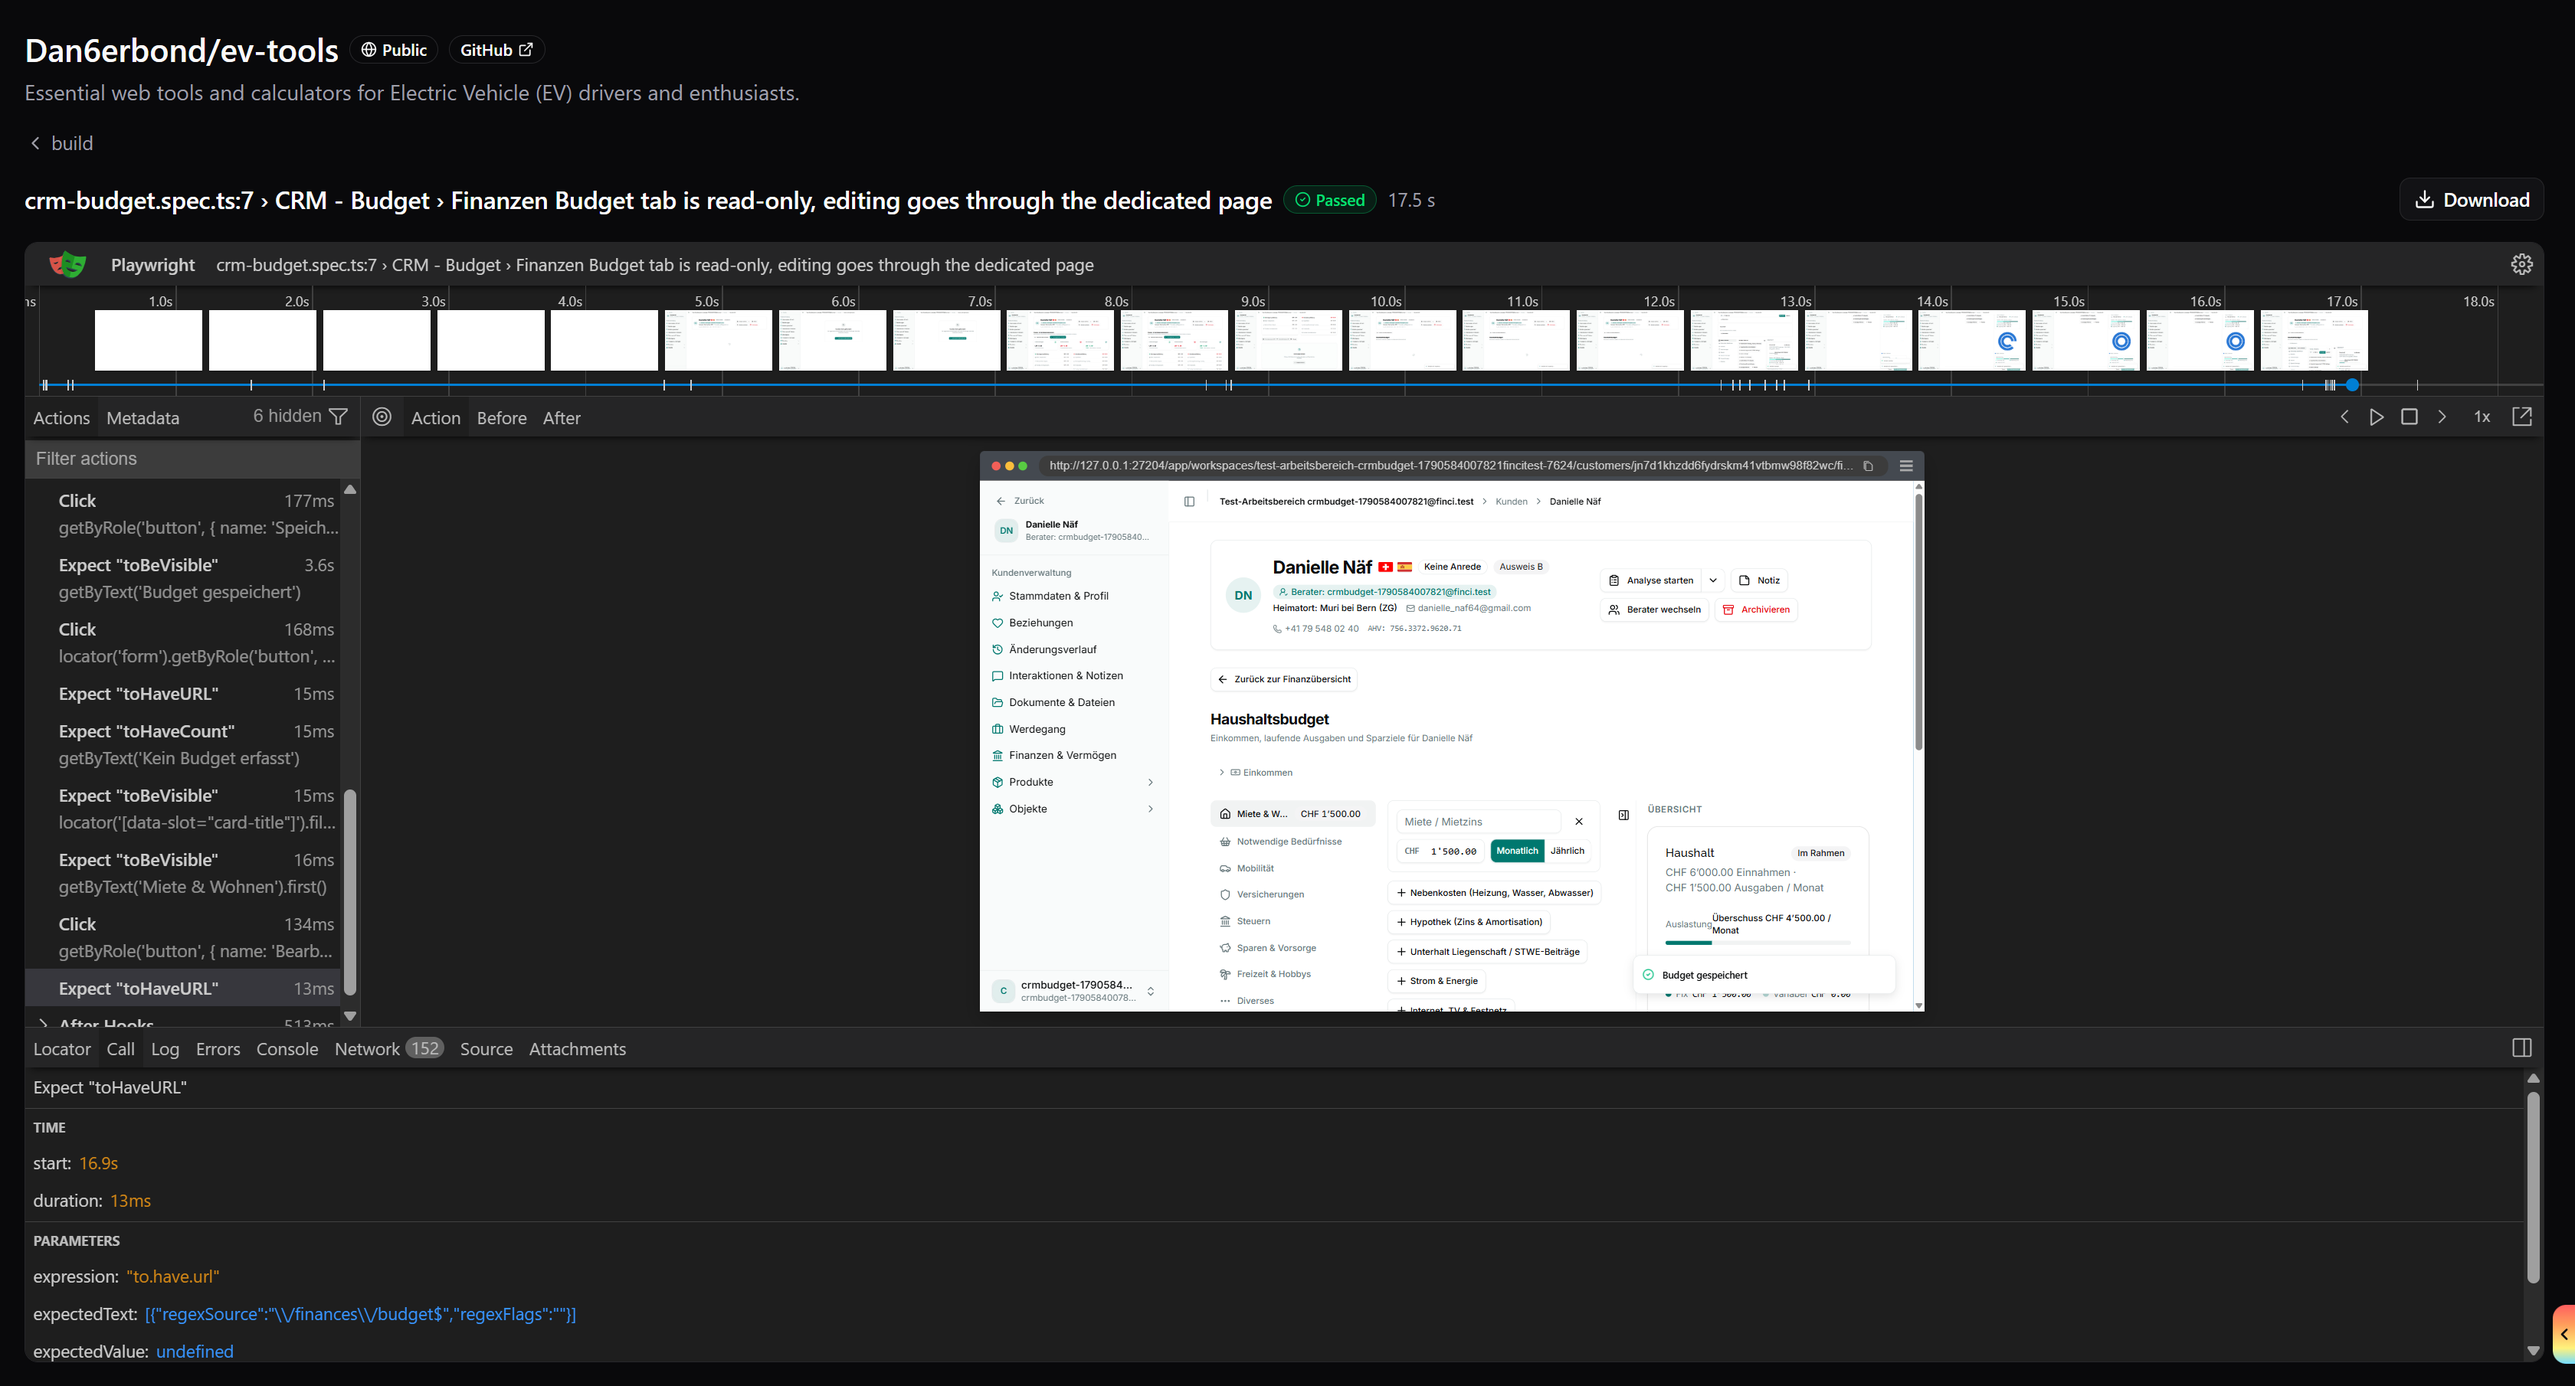
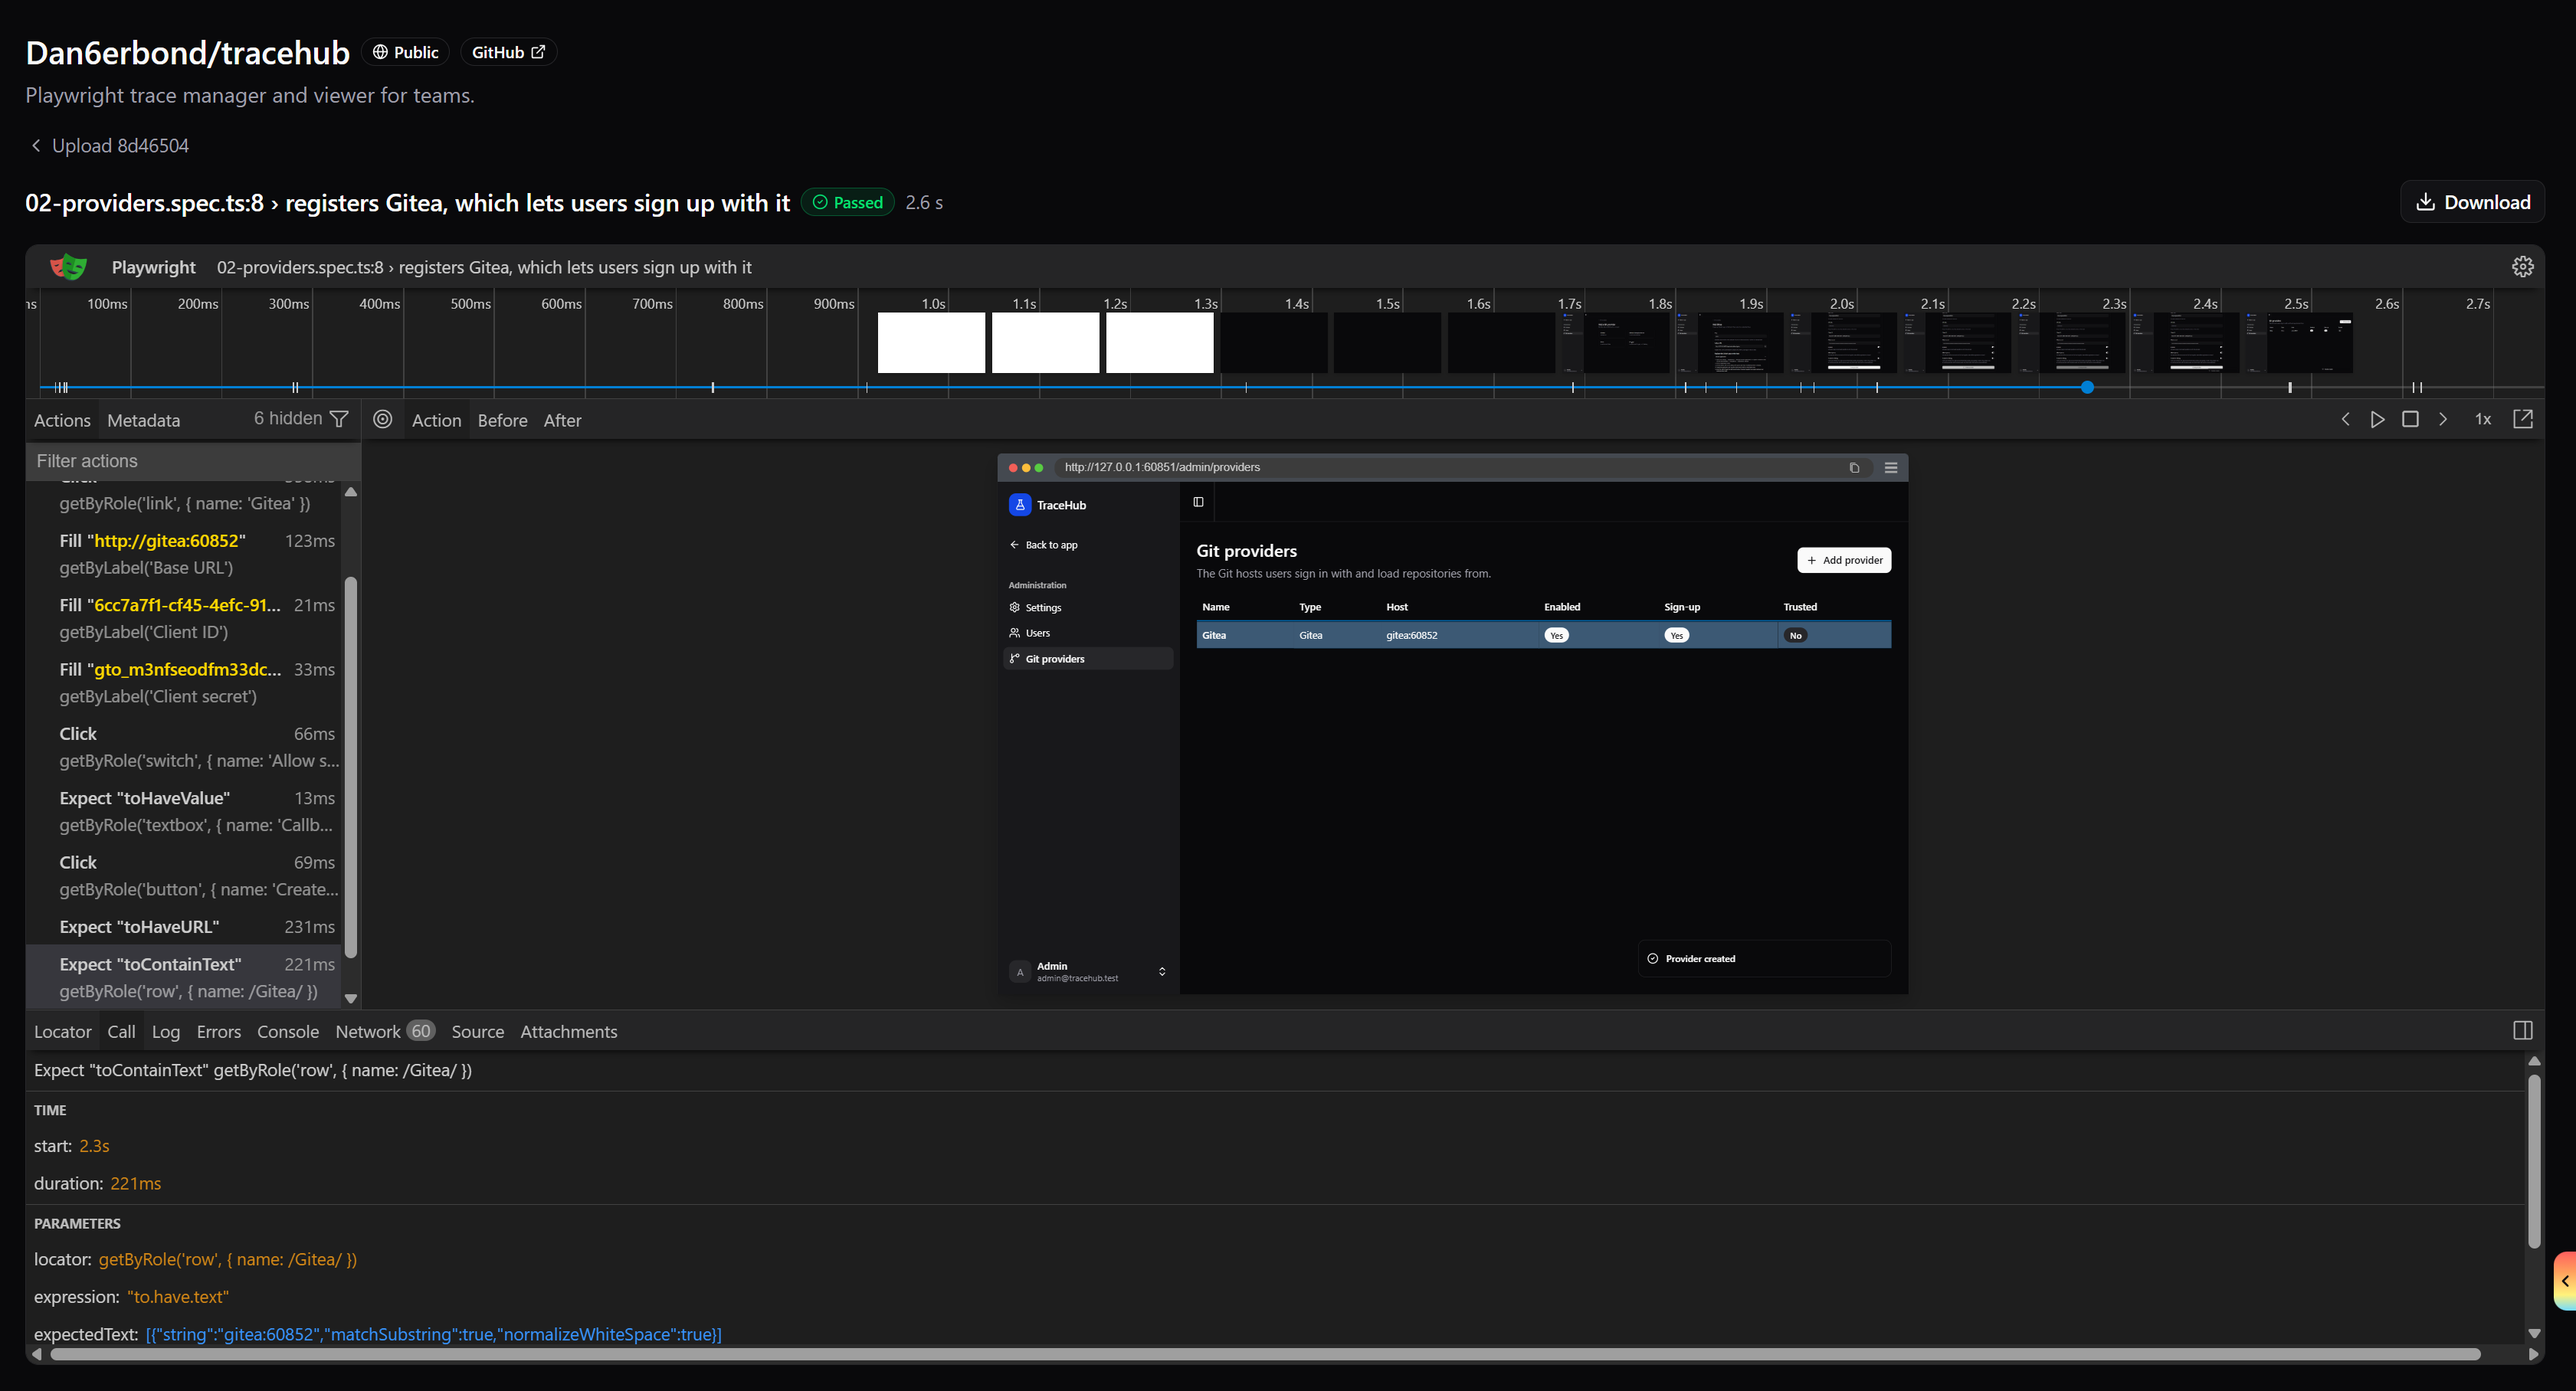
docs: replace screenshots with tracehub repo and traces

diff --git a/README.md b/README.md
@@ -49,7 +49,7 @@ A single job with the trace runs uploaded for it and links to the pipeline and t
 
 The traces of one run with status, duration and size. Each opens in the trace viewer.
 
-![Traces of a pipeline job run](img/7_screenshot_pipeline_job_with_traces.png)
+![Traces of a pipeline job run](img/7_screenshot_run_with_traces.png)
 
 ### Trace viewer
 
